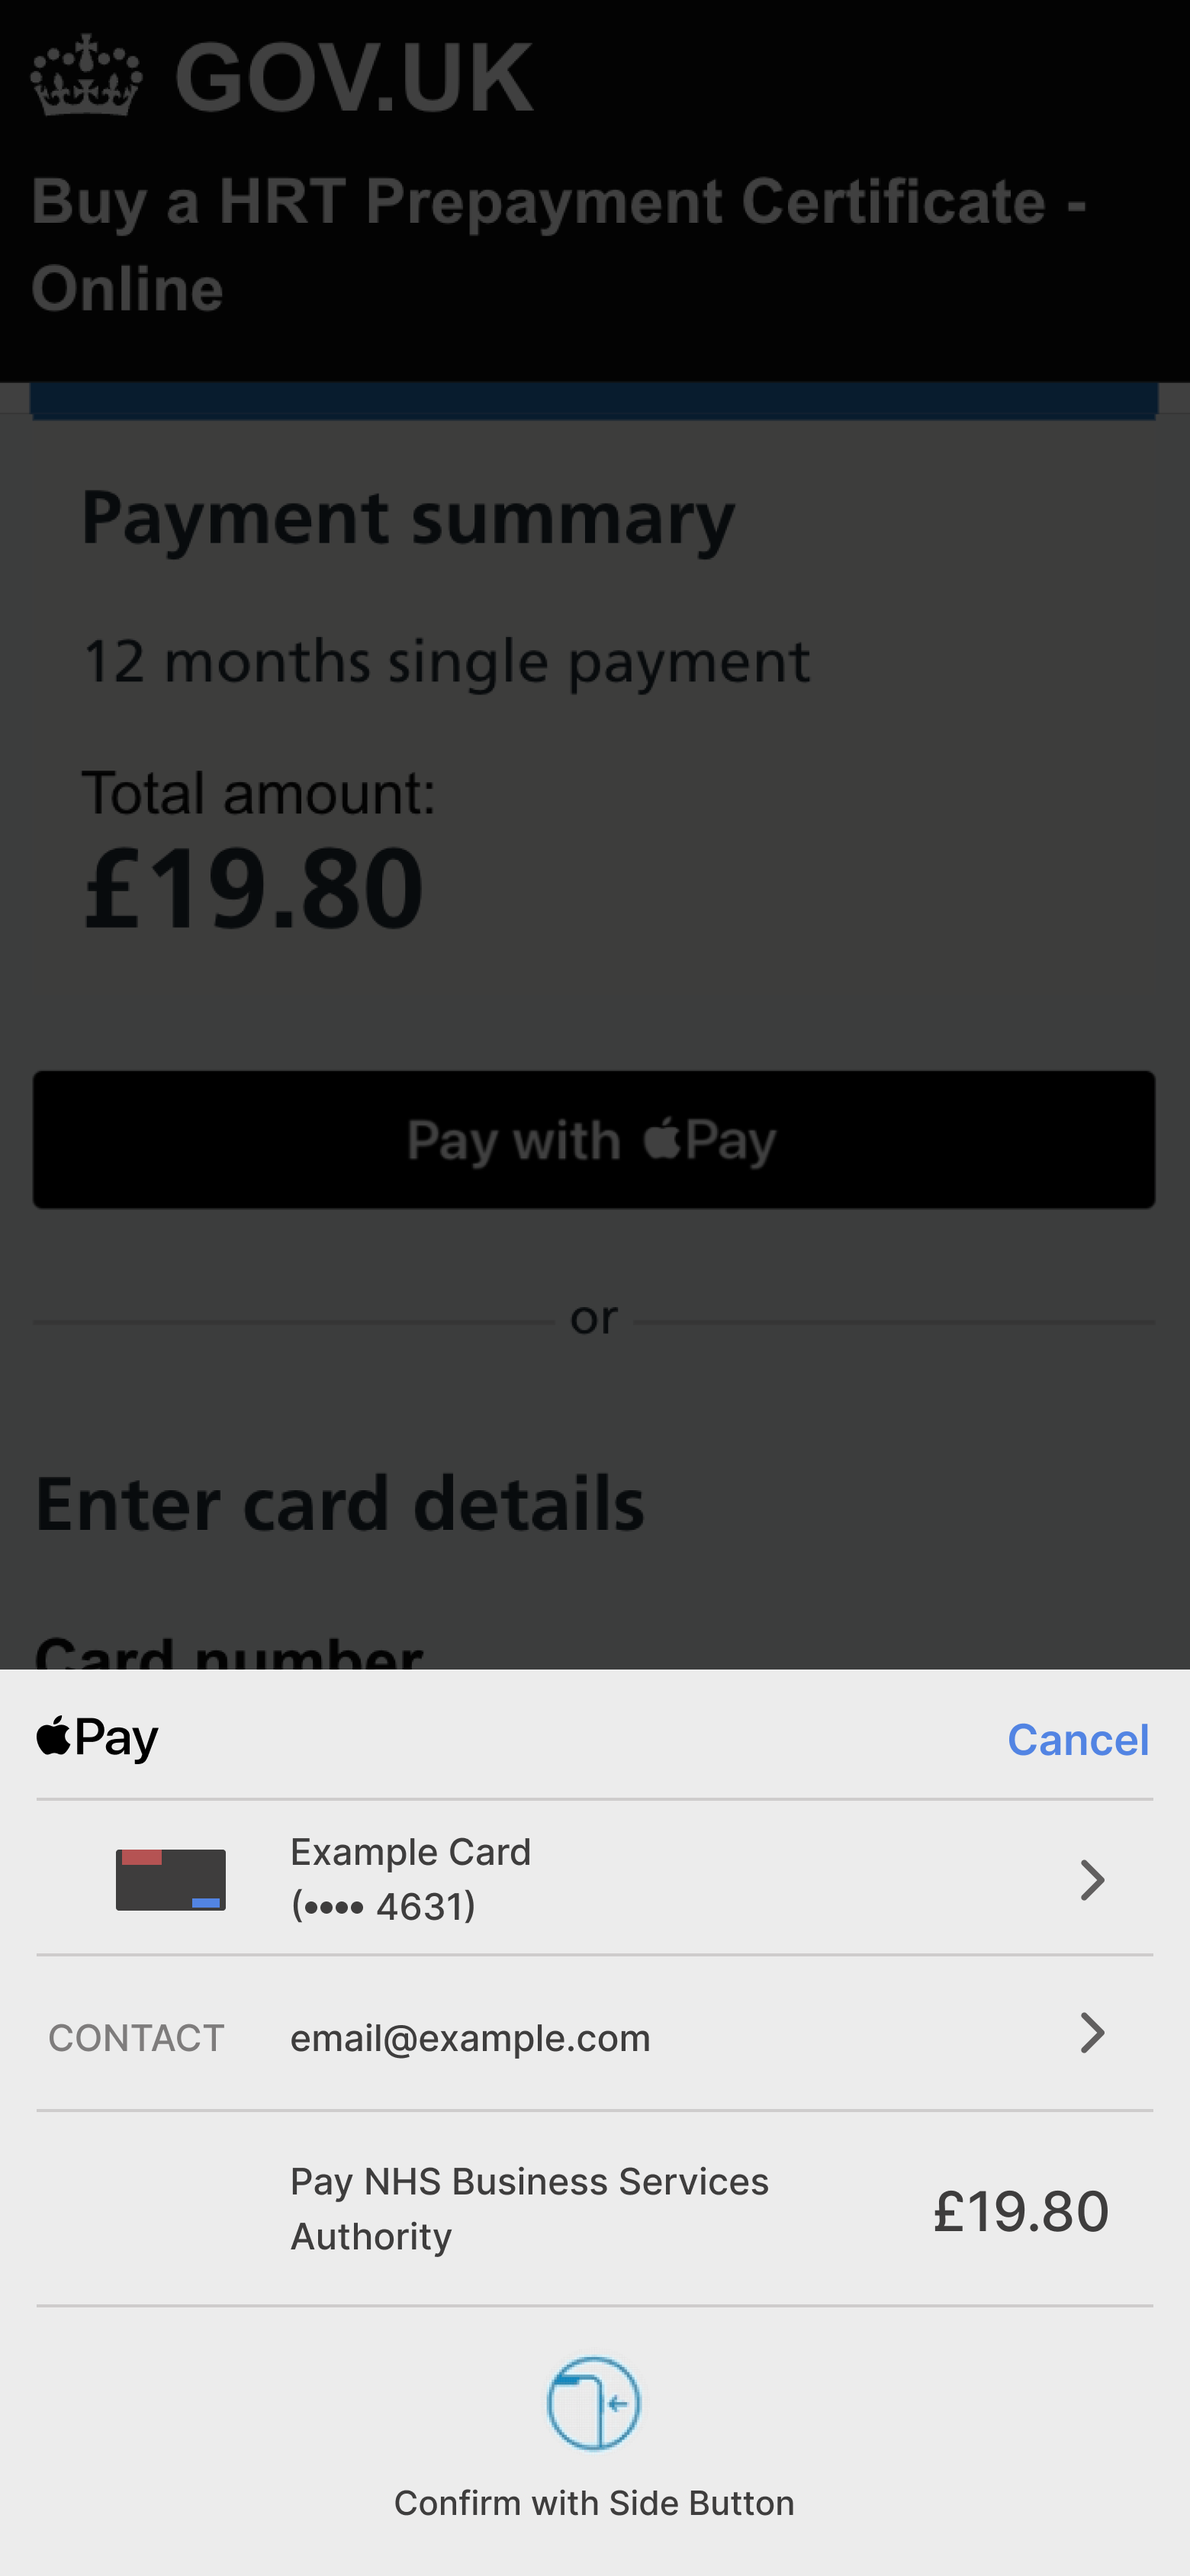
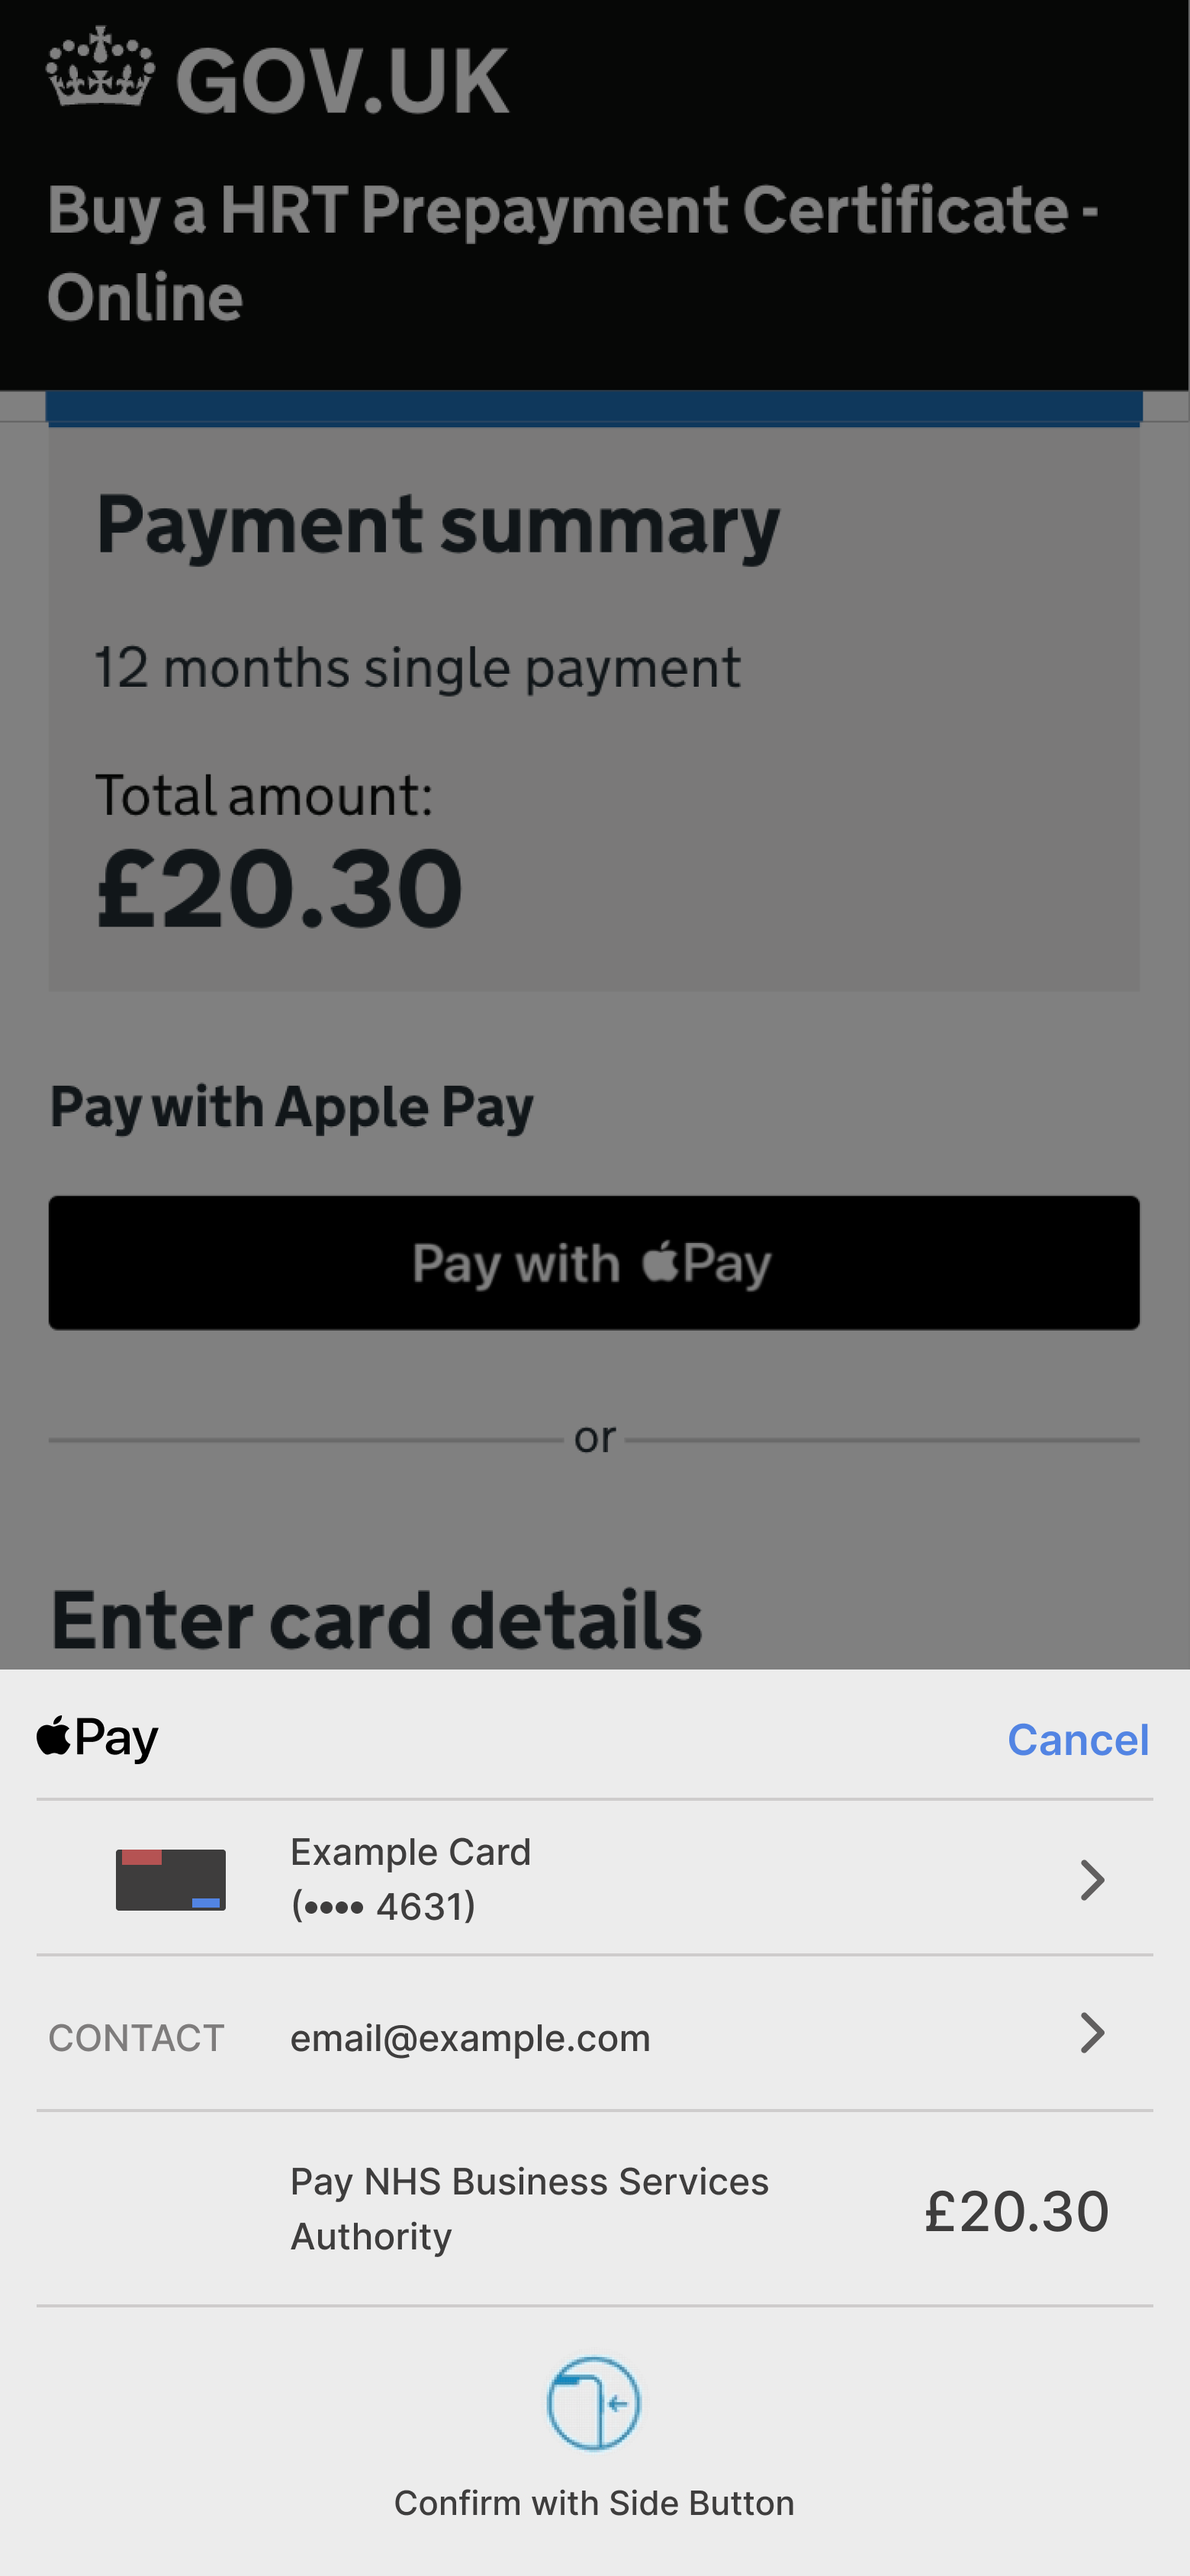
Price uplift 2025

diff --git a/app/views/full-journey-mobile-apple/payment-google-pay.html b/app/views/full-journey-mobile-apple/payment-google-pay.html
@@ -28,7 +28,7 @@
 <div class="payment-summary-wrap">
   <div class="payment-summary">
     <h1 class="nhsuk-heading-l">Payment summary</h1>
-      <p id="payment-description" class="nhsk-body" style="font-size:19px;">
+      <p id="payment-description" class="nhsuk-body" style="font-size:19px;">
         12 months single payment
       </p>
       

diff --git a/app/data/session-data-defaults.js b/app/data/session-data-defaults.js
@@ -64,8 +64,8 @@ function _getMedications(){
 //
 module.exports = {
 
-    NHSPrescriptionCost: '£9.90',
-    HRTPPCCost: '£19.80',
+    NHSPrescriptionCost: '£10.15',
+    HRTPPCCost: '£20.30',
 
     phaseBannerTagText: 'BETA',
     phaseBannerFeedbackLink: 'https://online1.snapsurveys.com/Interview/77e67933-70d0-410f-b972-c748a95fa0cc',
